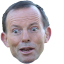
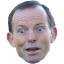
Added some emotes/stickers. Un-Christmas'd KappaWan.

diff --git a/LemmyCommands.py b/LemmyCommands.py
@@ -126,29 +126,30 @@ def james(client, res, msg, params):
 				if not gameTag:
 					client.send_message(msg.channel, msg.author.mention() + " was not added to any tag: No tag was specified.")
 				else:
-					if gameTag in res.jamesDb:
+					if not gameTag in res.jamesDb:
+						client.send_message(msg.channel, msg.author.mention() + " was not added to '" + gameTag + "': No such tag exists.")
+					else:
 						if msg.author.id in res.jamesDb[gameTag]:
 							client.send_message(msg.channel, msg.author.mention() + " was not added to '" + gameTag + "': User is already in '" + gameTag + "'.")
 						else:
 							update = True
 							res.jamesDb[gameTag].append(msg.author.id)
 							client.send_message(msg.channel, msg.author.mention() + " was successfully added to '" + gameTag + "'.")
-					else:
-						client.send_message(msg.channel, msg.author.mention() + " was not added to '" + gameTag + "': No such tag exists.")
+						
 
 			elif flag == "-leave":
 				if not gameTag:
 					client.send_message(msg.channel, msg.author.mention() + " was not removed from any tag: No tag was specified.")
 				else:
-					if gameTag in res.jamesDb:
-						if msg.author.id in res.jamesDb[gameTag]:
+					if not gameTag in res.jamesDb:
+						client.send_message(msg.channel, msg.author.mention() + " was not removed from '" + gameTag + "': No such tag exists.")
+					else:
+						if not msg.author.id in res.jamesDb[gameTag]:
+							client.send_message(msg.channel, msg.author.mention() + " was not removed from '" + gameTag + "': User is not in '" + gameTag + "'.")
+						else:
 							update = True
 							res.jamesDb[gameTag] = [x for x in res.jamesDb[gameTag] if x != msg.author.id]
 							client.send_message(msg.channel, msg.author.mention() + " was successfully removed from '" + gameTag + "'.")
-						else:
-							client.send_message(msg.channel, msg.author.mention() + " was not removed from '" + gameTag + "': User is not in '" + gameTag + "'.")
-					else:
-						client.send_message(msg.channel, msg.author.mention() + " was not removed from '" + gameTag + "': No such tag exists.")
 
 			elif flag == "-create":
 				if not Lutils.IsModOrAbove(msg.author):
@@ -186,8 +187,6 @@ def james(client, res, msg, params):
 							client.send_message(msg.channel, "Tag '" + gameTag + "' successfully deleted.")
 						else:
 							client.send_message(msg.channel, "Tag '" + gameTag + "' not deleted: Tag does not exist.")
-							
-
 
 			if update:
 				try:
@@ -209,13 +208,13 @@ def james(client, res, msg, params):
 		# No flags in message
 		else:
 			if len(params) > 0:
-				print("Params, no flags")
 				if params[0] in res.jamesDb:
 					response = "Pinging "
 					for userId in res.jamesDb[params[0]]:
 						user = Lutils.FindUserById(msg.channel.server.members, userId)
 						if user is not None:
-							response += user.mention() + " "
+							if user.status != "offline" and user != msg.author:
+								response += user.mention() + " "
 					response += "for " + res.jamesConverter[params[0]]
 					client.send_message(msg.channel, response)
 

diff --git a/LemmyBot.py b/LemmyBot.py
@@ -35,6 +35,7 @@ class LemmyBot:
 			"ruseman": Lcmds.ruseman,
 			"register": Lcmds.register,
 			"lemmycoin": Lcmds.lemmycoin,
+			"l$": Lcmds.lemmycoin,
 			"nicememe": Lcmds.nicememe,
 			"channelids": Lcmds.channelids,
 			"serverid": Lcmds.serverid,
@@ -55,8 +56,8 @@ class LemmyBot:
 		print("Attempting to log in.")
 		try:
 			self.client.login(username, password)
-		except:
-			print("ERROR logging into Discord!")
+		except Exception as e:
+			print("ERROR logging into Discord! (" + str(e) + ")")
 			input("Press any key to exit.\n")
 			quit()
 
